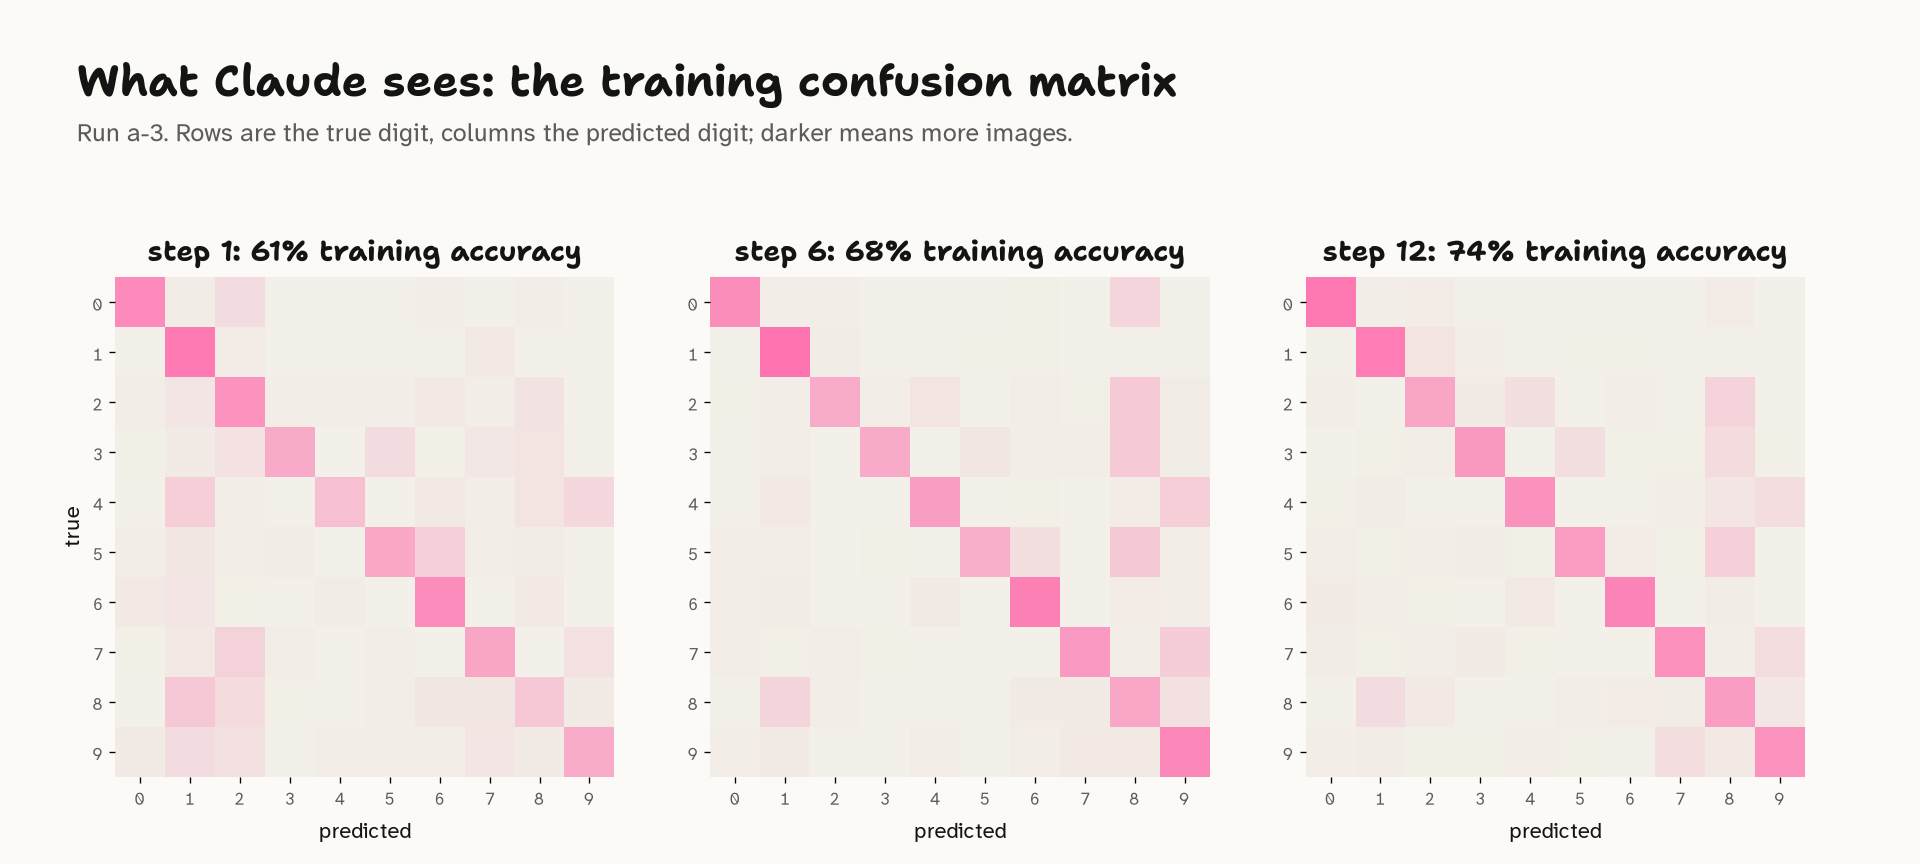
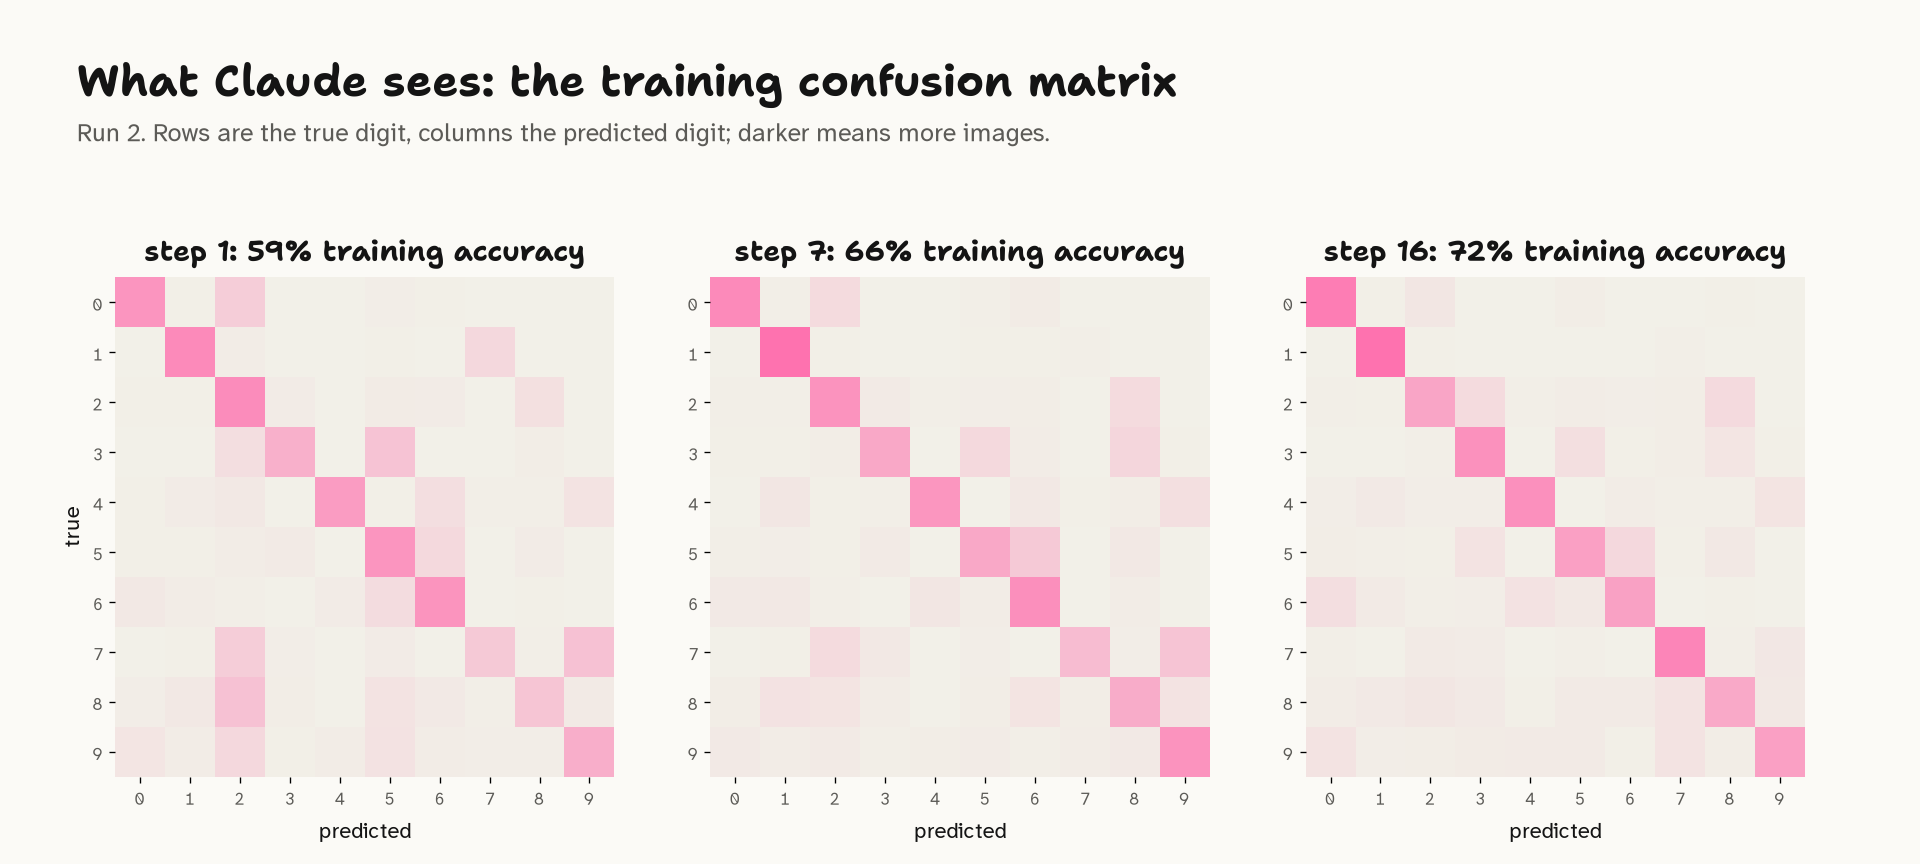
LLM Descent draft: walk through run 2 step by step, with LeCun's daunting-task quote

diff --git a/notes/permanent/llm-descent.md b/notes/permanent/llm-descent.md
@@ -89,17 +89,21 @@ in one Python code block.
 
 I ran it three times.
 
-[![Two step charts of the best training loss so far, three runs each, with each step's loss as faint dots and probe steps as ticks along the top. Left, numbers only: the runs fall to between 0.85 and 0.91 and stop at steps 19 to 23, scoring 70%, 72% and 74% on the test set. Right, with images: the runs fall more slowly and for longer, to between 0.77 and 0.83, stopping at steps 27, 40 and 50 and scoring 73%, 75% and 77%.](../_media/llm-descent/loss-by-step.png)](../_media/llm-descent/loss-by-step.png)
+[![Step chart of the best training loss so far for three Opus 5.5 runs, with each step's loss as dots and probe steps as ticks along the top. Run 1 falls from 2.6 to 0.89 and stops at step 23 (72% test accuracy). Runs 2 and 3 start near 1.2 and stop at steps 21 and 19, at 0.91 (70%) and 0.85 (74%).](../_media/llm-descent/loss-by-step.png)](../_media/llm-descent/loss-by-step.png)
 
-The left panel is the version with numbers only. (The right is a second version where Claude can also see some digits; more on that below.) All three runs descend, and they land close together: 72%, 70% and 74% on the test set, after 19 to 23 steps.
+All three runs descend, and they land close together: 72%, 70% and 74% on the test set, after 19 to 23 steps.
 
-I want to explore what the runs did, step by step. We can see that it looks very similar to the hand-crafted approaches that early computer vision researchers used.
+Let's look at what the runs actually built, step by step. As we'll see, Claude's approach looks a lot like the hand-crafted methods early computer vision researchers used.
 
 ### A 1990s computer-vision pipeline
 
-In 1998, the paper that introduced MNIST described that era's approach: "Traditional pattern recognition is performed with two modules: a fixed feature extractor and a trainable classifier", and the feature extractor "is often entirely hand crafted" [@lecunGradientbasedLearningApplied1998]. That's pretty much the approach that Claude takes. All three runs built the same kind of pipeline, in roughly the same order:
+In 1998, LeCun's paper that introduced MNIST described that era's approach as "a fixed feature extractor and a trainable classifier", where the feature extractor "is often entirely hand crafted" [@lecunGradientbasedLearningApplied1998]. Accuracy, he wrote, "is largely determined by the ability of the designer to come up with an appropriate set of features", which is "a daunting task which, unfortunately, must be redone for each new problem."
 
-| Technique | Run a-1 | Run a-2 | Run a-3 |
+That daunting task is exactly what Claude takes on, for a few dollars a run.
+
+All three runs built the same kind of pipeline, in roughly the same order:
+
+| Technique | Run 1 | Run 2 | Run 3 |
 |---|---:|---:|---:|
 | Hand-drawn digit templates | step 1 | step 1 | step 1 |
 | Nearest-centroid or cosine matching | step 1 | step 4 | step 2 |
@@ -110,45 +114,65 @@ In 1998, the paper that introduced MNIST described that era's approach: "Traditi
 
 *The first step at which each run's reply uses the technique.*
 
-#### 1. Hand-made features and templates
+We'll study all the steps taken in run 2, which turns out to be an interesting history lesson on how we created image classification models before the deep learning era. It scored the lowest of the three (70.5%), but it has the richest history.
 
-Claude starts like a computer vision engineer from the 1990s. Its first layer is a set of oriented line or edge detectors, written from formulas, much like the Sobel edge gradients that 1990s digit recognisers started from [@favataMultipleFeatureResolution1996]:
+[![Line chart of test accuracy for every network run 2 wrote, over 21 steps, on five coloured bands: templates (steps 1 to 3), nearest centroid (4 to 6), naive Bayes (7 to 9), probes (10 to 16) and calibration and endpoints (17 to 21). Accuracy starts at 58%, dips to 37% at step 3, jumps from 55% to 66% when it switches to naive Bayes, and peaks at 70.5% at step 16. Probe steps at 10, 15 and 20 are marked along the bottom. Adam after 50 gradient steps is marked at 91%.](../_media/llm-descent/run-2-story.png)](../_media/llm-descent/run-2-story.png)
 
-[![Two rows of eight 5 by 5 first-layer filters, teal for positive and pink for negative. Opus 5.5's row, from run a-3: eight clean edge detectors, four orientations each in both polarities. Adam's row: irregular, mixed patterns.](../_media/llm-descent/filters-written-vs-learned.png)](../_media/llm-descent/filters-written-vs-learned.png)
+#### 1. Hand-drawn templates (steps 1 to 3)
 
-On top of those, its second layer detects shapes: loops and holes, stroke endpoints, and regions where a digit should have no ink, the structural features that handwriting recognisers relied on [@trierFeatureExtractionMethods1996] [@favataMultipleFeatureResolution1996]. Then it draws a stroke template for each digit and classifies by template matching, the oldest approach in character recognition [@moriHistoricalReviewOCR1992]. Two of the three first networks score about 60%.
+Claude starts like a computer vision engineer from the 1990s. Its first layer is a set of line detectors at four angles, written from formulas, much like the Sobel edge gradients that 1990s digit recognisers started from [@favataMultipleFeatureResolution1996]:
 
-#### 2. Nearest centroid, then naive Bayes
+[![Two rows of eight 5 by 5 first-layer filters, teal for positive and pink for negative. Opus 5.5's row, from run 2: clean line detectors at 0, 45, 90 and 135 degrees, each used twice. Adam's row: irregular, mixed patterns.](../_media/llm-descent/filters-written-vs-learned.png)](../_media/llm-descent/filters-written-vs-learned.png)
 
-Matching against templates swings wildly with how strong the features turn out to be, which Claude can't see. So it reaches for proper classifiers. Run a-2, at step 4:
+Then it draws a template for each digit and scores every image against them. That's template matching, the oldest approach in character recognition [@moriHistoricalReviewOCR1992]. Its first network gets 58% on the test set. After that, it reads the confusion matrix and corrects the class biases:
+
+> The step 1 confusion matrix shows a strong preference for some classes, while others are under-predicted. Most of all, "2" was predicted 2,122 times against 990 true 2s.
+
+#### 2. Nearest centroid and shape detectors (steps 4 to 6)
+
+At step 4 it upgrades its scoring rule:
 
 > So I'm replacing the ad hoc template matching with a proper nearest-centroid rule in feature space
 
-Run a-3, at step 6:
+The trouble is that it can't see how strong its features are, so every adjustment helps one digit and hurts another. By step 6 it decides templates have hit their limit:
 
-> I use scoring that does not depend on overall feature scale, a multinomial naive Bayes.
+> Plain orientation templates seem to top out around 60%.
 
-Bayesian decision rules for reading characters go back to 1957 [@chowOptimumCharacterRecognition1957].
+So it adds detectors for loops and arcs, the structural features that handwriting recognisers relied on [@trierFeatureExtractionMethods1996] [@favataMultipleFeatureResolution1996].
 
-#### 3. Measuring without looking
+#### 3. Naive Bayes (steps 7 to 9)
 
-A 1990s engineer would have looked at the digits to see where their features go wrong. Claude can't. Two of the three runs did something I didn't expect: they stopped classifying for a step, to measure their own features. Run a-3, at step 17:
+At step 7 it turns every feature into a yes-or-no "presence" value and switches to naive Bayes, which treats each feature as independent evidence for each digit. Bayesian decision rules for reading characters go back to 1957 [@chowOptimumCharacterRecognition1957]. It's the run's biggest jump, from 55% to 66%, and then 69% after it corrects the class priors.
 
-> it is a deliberate probe, and its loss will be poor. It costs nothing in the final score, because only the step with the lowest training loss is kept.
+#### 4. Measuring without looking (steps 10 to 16)
 
-It rewires the output layer so each "predicted digit" stands for a range of one of its own features, which turns each row of the confusion matrix into a histogram of that feature for one true digit.
+A 1990s engineer would have looked at the digits to see where their features go wrong. Claude can't. At step 10 it does something I didn't expect:
+
+> This step is a measurement, not a model.
+
+It rewires the output layer so each "predicted digit" stands for a range of loop-detector activity, which turns each row of the confusion matrix into a histogram for one true digit. The result is bad news:
+
+> Step 10's loop detector fires on almost every digit except 1.
+
+So it redesigns the detector, measures it again at step 15, and this time finds it selective: about 37% of 9s show a loop in the top half, and almost none in the bottom. Step 16, built on that measurement, is its best network, at 70.5% on the test set.
 
 Is that cheating? It doesn't break the rules: the code never sees an image, never runs the network and never fits anything. But it squeezes far more out of the training set than the loss alone: class-by-class feature statistics, read through a 100-number window one step at a time. The test set stays untouched, so the scores below are still honest held-out scores.
 
-In these runs the probes came late, and the stopping rule ended both runs soon after. In [an earlier version of this experiment](https://github.com/lextoumbourou/weight-space-programming-experiments/tree/e26658b/mnist-training/results/opus-p8-3), one run leaned on probing much harder: it probed 13 times, fed the measured probabilities into naive Bayes and reached 86%.
+In [an earlier version of this experiment](https://github.com/lextoumbourou/weight-space-programming-experiments/tree/e26658b/mnist-training/results/opus-p8-3), one run leaned on probing much harder: it probed 13 times, fed the measured probabilities into naive Bayes and reached 86%.
 
-#### 4. Calibration
+#### 5. Calibration, and one detector too many (steps 17 to 21)
 
-The last steps are fine-tuning by hand: sharpening or softening the logits (temperature scaling) and correcting class biases from the column totals. Run a-3, at step 12:
+The last steps are fine-tuning by hand, like scaling the logits so it's less over-confident:
 
-> If the loss falls, the model was underconfident and I can push the scale further. If it rises, I'll go the other way.
+> A smaller λ should make the softmax less over-confident on the ~28% of images it gets wrong.
 
-[![Three training confusion matrices for run a-3, rows true digit and columns predicted digit, shaded pink. At step 1 (61% training accuracy) many 4s and 8s are predicted as 1. At step 6 (68%) the diagonal is clearer. At step 12 (74%), its best step, the diagonal dominates.](../_media/llm-descent/confusion-over-steps.png)](../_media/llm-descent/confusion-over-steps.png)
+Then it adds stroke-endpoint detectors, which make things worse, so it measures them at step 20 and finds out why. Its second layer can't see the edges of the image, where most strokes end:
+
+> True stroke ends, such as the tops and bottoms of 1, 4, 7 and 9 at rows ≈4–5 and ≈23–24, lie *outside* that range.
+
+It drops them at step 21, and the stopping rule ends the run.
+
+[![Three training confusion matrices for run 2, rows true digit and columns predicted digit, shaded pink. At step 1 (59% training accuracy) many digits are predicted as 2. At step 7 (66%), after the switch to naive Bayes, the diagonal is clearer. At step 16 (72%), its best step, the diagonal dominates.](../_media/llm-descent/confusion-over-steps.png)](../_media/llm-descent/confusion-over-steps.png)
 
 #### When fitting was allowed, it reached for 1936
 
